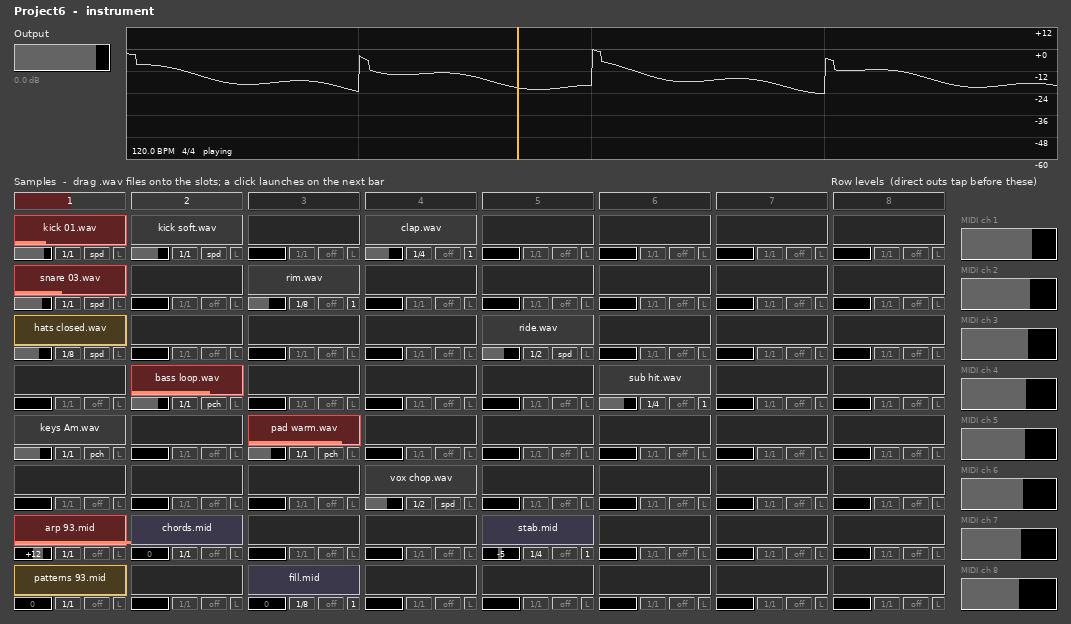
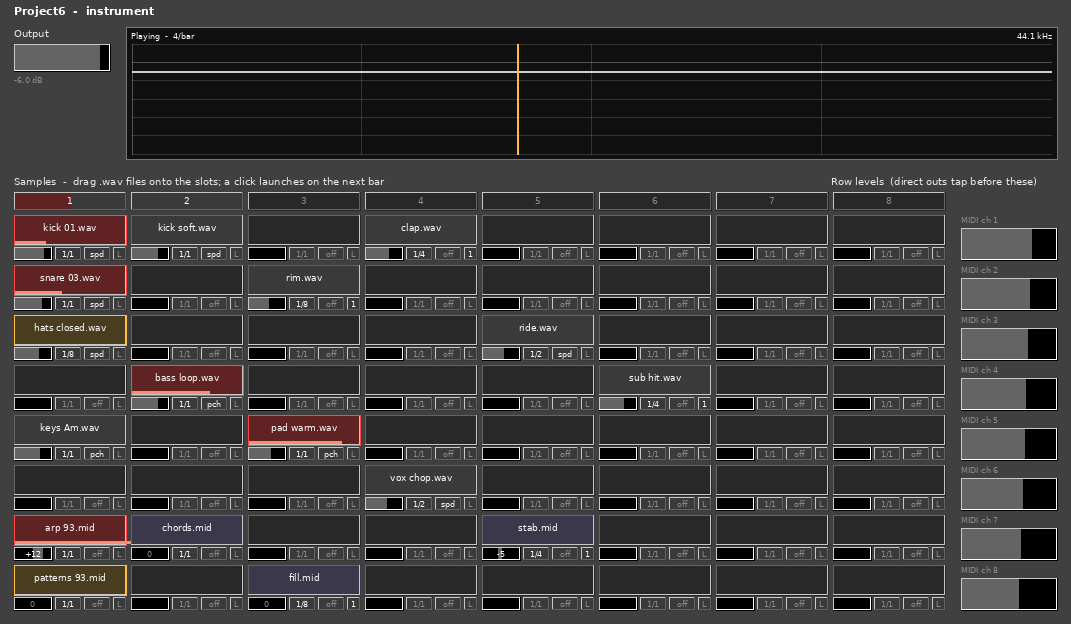
Project6: the display plots the trim, not a waveform - fix the render
Caught by Andy looking at the picture and saying the real plug-in has no
waveform. He was right, and the render was wrong: I had drawn an invented
level history with beat transients, in a script whose entire justification
is that it is drawn from the source.

What SpyDisplay::draw actually plots is ONE STRAIGHT LINE - drawPolyline
with a sampler that ignores its position argument and returns the output
trim's dB for every point. There is no waveform and no level history
because nothing publishes either; the display is a readout of the trim and
the transport, not a meter. At the default trim of 0 dB that line sits
exactly on the unity gridline, which is very likely why it reads as "no
trace at all" on screen.

The rest of the display was wrong with it and is now taken from the code:
the plot rect is r.inset(6,5) with top += 12, which is the band the caption
gets so a trace at full level does not run through the lettering; the
caption is "Playing - 4/bar" on the left and the DSP's actual sample rate
on the right, at the TOP, not a BPM string at the bottom; and the seven
kDbLines are drawn with unity brightest.

The trim is now a single value used twice - the slider's position and the
trace's height - mirroring the plug-in, where the display plots the trim
and nothing else. Set to -6 dB so the line is visibly distinct from the
unity gridline rather than hidden under it.

The lesson is the one this project keeps relearning: a picture generated
[…]

Changed region(s): [[0.1232, 0.0304, 0.986, 0.274]]

diff --git a/tools/render-panel.py b/tools/render-panel.py
@@ -59,6 +59,10 @@ g = K.get
 
 SLOT_COLUMNS, SLOT_ROWS = 8, 8
 
+# Project6Dsp.h - the trim's range, so the slider position and the trace
+# in the display are computed from the same scale.
+TRIM_MIN_DB, TRIM_MAX_DB = -60.0, 0.0
+
 # Derived exactly as the header derives them.
 LEVEL_W      = g('kSlotWidth') - g('kDivisionWidth') - g('kFitWidth') \
                - g('kLoopWidth') - 3 * g('kStripGap')
@@ -177,57 +181,72 @@ def draw_panel(out_path):
            font=F_TITLE, fill=SLOT_TEXT)
 
     # --- the output trim, left of the display ---------------------------
+    # ONE VALUE, used twice: the slider's position and the trace in the
+    # display are the same number, exactly as they are in the plug-in,
+    # where the display plots the trim and nothing else.
+    trim_db = -6.0
+    trim_frac = (trim_db - TRIM_MIN_DB) / (TRIM_MAX_DB - TRIM_MIN_DB)
+
     d.text((g('kMargin'), HEADING_TOP), 'Output', font=F_HEAD, fill=CAPTION)
     sl = (g('kMargin'), GRID_TOP, g('kMargin') + g('kSliderWidth'),
           GRID_TOP + g('kSliderHeight'))
     d.rectangle(sl, fill=LAMP_OFF)
-    d.rectangle((sl[0] + 1, sl[1] + 1, sl[0] + 1 + (sl[2] - sl[0] - 2) * 0.86,
-                 sl[3] - 1), fill=BAR_FILL)
+    d.rectangle((sl[0] + 1, sl[1] + 1,
+                 sl[0] + 1 + (sl[2] - sl[0] - 2) * trim_frac, sl[3] - 1),
+                fill=BAR_FILL)
     well(d, sl, BAR_LIGHT, BAR_HIGH)
-    d.text((g('kMargin'), GRID_TOP + g('kSliderHeight') + 4), '0.0 dB',
-           font=F_TINY, fill=SLOT_IDLE)
+    d.text((g('kMargin'), GRID_TOP + g('kSliderHeight') + 4),
+           '%.1f dB' % trim_db, font=F_TINY, fill=SLOT_IDLE)
 
     # --- the display ----------------------------------------------------
-    plot = (DISPLAY_LEFT, HEADING_TOP, DISPLAY_LEFT + DISPLAY_W, DISPLAY_BOT)
-    d.rectangle(plot, fill=(0, 0, 0, 190))
-    d.rectangle(plot, outline=(255, 255, 255, 110))
+    plate = (DISPLAY_LEFT, HEADING_TOP, DISPLAY_LEFT + DISPLAY_W, DISPLAY_BOT)
+    d.rectangle(plate, fill=(0, 0, 0, 190))
+    d.rectangle(plate, outline=(255, 255, 255, 110))
 
-    for beat in range(4):                       # 4/4, one bar wide
-        x = plot[0] + DISPLAY_W * beat / 4.0
-        d.line((x, plot[1], x, plot[3]),
-               fill=(255, 255, 255, 70 if beat == 0 else 38))
-    # kDbLines, from Project6Display.cpp. +12 dB at the top, -60 at the
-    # bottom; unity is the one drawn brightest because it is the one that
-    # matters.
+    # SpyDisplay::draw: plot = r.inset(6, 5) then plot.top += 12, which is
+    # the band the caption gets so that a trace at full level does not run
+    # through the lettering.
+    plot = (plate[0] + 6, plate[1] + 5 + 12, plate[2] - 6, plate[3] - 5)
+    plot_h = plot[3] - plot[1]
+    plot_w = plot[2] - plot[0]
+
+    # kDbLines, from Project6Display.cpp. Unity is the line drawn brightest
+    # because it is the one that matters.
     db_lines = (12.0, 0.0, -12.0, -24.0, -36.0, -48.0, -60.0)
 
     def y_of(db):
-        return plot[1] + g('kDisplayHeight') * (12.0 - db) / 72.0
+        return plot[1] + plot_h * (db_lines[0] - db) / (db_lines[0] - db_lines[-1])
 
     for db in db_lines:
         y = y_of(db)
         d.line((plot[0], y, plot[2], y),
                fill=(255, 255, 255, 70 if db == 0.0 else 38))
-        d.text((plot[2] - 22, y + 1), '%+.0f' % db, font=F_TINY,
-               fill=(255, 255, 255, 90))
 
-    # An output level over one bar: four beats, each with an attack and a
-    # decay, sitting a few dB under unity where a mix actually sits.
-    import math
-    pts = []
-    for i in range(DISPLAY_W):
-        phase = i / float(DISPLAY_W)
-        beat = (phase * 4.0) % 1.0
-        level = -7.0 - 15.0 * beat ** 0.6 + 2.5 * math.sin(phase * 40.0)
-        if beat < 0.04:
-            level += 5.0
-        pts.append((plot[0] + i, y_of(max(-60.0, min(6.0, level)))))
-    d.line(pts, fill=(255, 255, 255, 205), width=1)
+    beats = 4                                   # the host's own numerator
+    for beat in range(beats):
+        x = plot[0] + plot_w * beat / float(beats)
+        d.line((x, plot[1], x, plot[3]),
+               fill=(255, 255, 255, 70 if beat == 0 else 38))
 
-    xh = plot[0] + DISPLAY_W * 0.42
-    d.line((xh, plot[1], xh, plot[3]), fill=PLAYHEAD, width=2)
-    d.text((plot[0] + 6, plot[3] - 13), '120.0 BPM   4/4   playing',
+    # THE ONE THING THERE IS TO DRAW, and it is a STRAIGHT LINE - the
+    # output trim, plotted across the bar. There is no waveform and no
+    # level history: nothing publishes either, and the display is a readout
+    # of the trim and the transport, not a meter.
+    d.line((plot[0], y_of(trim_db), plot[2], y_of(trim_db)),
+           fill=(255, 255, 255, 205), width=2)
+
+    # The caption band at the TOP - transport and beats on the left, the
+    # DSP's actual sample rate on the right.
+    cap_y = plate[1] + 4
+    d.text((plate[0] + 5, cap_y), 'Playing  -  %d/bar' % beats,
            font=F_TINY, fill=(255, 255, 255, 200))
+    rate = '44.1 kHz'
+    d.text((plate[2] - 5 - d.textlength(rate, font=F_TINY), cap_y), rate,
+           font=F_TINY, fill=(255, 255, 255, 200))
+
+    # LAST, over everything, because it is the only thing that moves.
+    xh = plot[0] + plot_w * 0.42
+    d.line((xh, plot[1], xh, plot[3]), fill=PLAYHEAD, width=2)
 
     # --- headings -------------------------------------------------------
     d.text((g('kMargin'), SLOT_HEAD),
